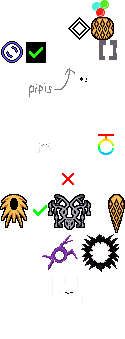
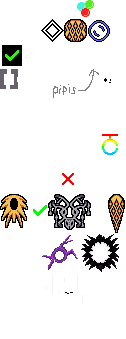
Add new watchermode challenges

diff --git a/bingovista.js b/bingovista.js
@@ -1291,7 +1291,7 @@ export const CHALLENGES = {
 			{ type: "text", value: (v[0] === "false") ? ("[" + String(am) + "/" + String(amt) + "]") : v[1].toUpperCase(), color: RainWorldColors.Unity_white }
 		];
 		if (v[2] === "true")
-			p.splice(2, 0, { type: "icon", value: "singlearrow", scale: 1, color: RainWorldColors.Unity_white, rotation: 0 } );
+			p.splice(2, 0, { type: "icon", value: "keyShiftB", scale: 1, color: RainWorldColors.Unity_white, rotation: 90 } );
 		var b = Array(4); b.fill(0);
 		if (v[0] === "true") {
 			//	can use old version
@@ -1472,7 +1472,7 @@ export const CHALLENGES = {
 			comments: "When a creature is taken through a gate, that creature is added to a list and the gate is logged. If a gate already appears in the creature's list, taking that gate again will not advance the count. Thus, you can't grind progress by taking one gate back and forth. The list is stored per creature transported; thus, taking a new different creature does not advance the count, nor does piling multiple creatures into one gate. When the total gate count of any logged creature reaches the goal, credit is awarded.",
 			paint: [
 				{ type: "icon", value: entityIconAtlas(items[1]), scale: 1, color: entityIconColor(items[1]), rotation: 0 },
-				{ type: "icon", value: "singlearrow", scale: 1, color: RainWorldColors.Unity_white, rotation: 0 },
+				{ type: "icon", value: "keyShiftB", scale: 1, color: RainWorldColors.Unity_white, rotation: 90 },
 				{ type: "icon", value: "ShortcutGate", scale: 1, color: RainWorldColors.Unity_white, rotation: 0 },
 				{ type: "break" },
 				{ type: "text", value: "[" + String(am) + "/" + String(amt) + "]", color: RainWorldColors.Unity_white }
@@ -1889,7 +1889,7 @@ export const CHALLENGES = {
 		d += iteratorNameToDisplayTextMap[items[1]] + ".";
 		var p = [
 			{ type: "icon", value: "GuidanceNeuron", scale: 1, color: RainWorldColors.GuidanceNeuron, rotation: 0 },
-			{ type: "icon", value: "singlearrow", scale: 1, color: RainWorldColors.Unity_white, rotation: 0 },
+			{ type: "icon", value: "keyShiftB", scale: 1, color: RainWorldColors.Unity_white, rotation: 90 },
 		]
 		p.push( { type: "icon", value: iteratorNameToIconAtlasMap[items[1]], scale: 1, color: iteratorNameToIconColorMap[items[1]], rotation: 0 } );
 		var b = Array(3); b.fill(0);
@@ -2058,7 +2058,7 @@ export const CHALLENGES = {
 		d += r;
 		var p = [ { type: "icon", value: entityIconAtlas(items[1]), scale: 1, color: entityIconColor(items[1]), rotation: 0 } ];
 		if (any[1] === "true") {
-			p.push( { type: "icon", value: "singlearrow", scale: 1, color: RainWorldColors.Unity_white, rotation: 0 },
+			p.push( { type: "icon", value: "keyShiftB", scale: 1, color: RainWorldColors.Unity_white, rotation: 90 },
 					{ type: "icon", value: "doubleshelter", scale: 1, color: RainWorldColors.Unity_white, rotation: 0 } );
 		} else {
 			p.unshift( { type: "icon", value: "ShelterMarker", scale: 1, color: RainWorldColors.Unity_white, rotation: 0 } );
@@ -2351,7 +2351,7 @@ export const CHALLENGES = {
 			comments: "",
 			paint: [
 				{ type: "icon", value: "Symbol_Neuron", scale: 1, color: RainWorldColors.Unity_white, rotation: 0 },
-				{ type: "icon", value: "singlearrow", scale: 1, color: RainWorldColors.Unity_white, rotation: 0 },
+				{ type: "icon", value: "keyShiftB", scale: 1, color: RainWorldColors.Unity_white, rotation: 90 },
 				{ type: "icon", value: iteratorNameToIconAtlasMap[oracle], scale: 1, color: iteratorNameToIconColorMap[oracle], rotation: 0 },
 				{ type: "break" },
 				{ type: "text", value: "[" + String(am) + "/" + String(amt) + "]", color: RainWorldColors.Unity_white }
@@ -2436,7 +2436,7 @@ export const CHALLENGES = {
 				{ type: "text", value: items[1], color: RainWorldColors.Unity_white },
 				{ type: "icon", value: "Symbol_Pearl", scale: 1, color: entityIconColor("Pearl"), rotation: 0 },
 				{ type: "break" },
-				{ type: "icon", value: "singlearrow", scale: 1, color: RainWorldColors.Unity_white, rotation: 90 },
+				{ type: "icon", value: "keyShiftB", scale: 1, color: RainWorldColors.Unity_white, rotation: 180 },
 				{ type: "break" },
 				{ type: "icon", value: iteratorNameToIconAtlasMap[oracle], scale: 1, color: iteratorNameToIconColorMap[oracle], rotation: 0 }
 			],
@@ -2482,7 +2482,7 @@ export const CHALLENGES = {
 		d += r + ".";
 		var p = [ { type: "icon", value: ((common[1] === "true") ? "pearlhoard_normal" : "pearlhoard_color"), scale: 1, color: entityIconColor("Pearl"), rotation: 0 } ];
 		if (any[1] === "true") {
-			p.push( { type: "icon", value: "singlearrow", scale: 1, color: RainWorldColors.Unity_white, rotation: 0 },
+			p.push( { type: "icon", value: "keyShiftB", scale: 1, color: RainWorldColors.Unity_white, rotation: 90 },
 					{ type: "icon", value: "doubleshelter", scale: 1, color: RainWorldColors.Unity_white, rotation: 0 } );
 		} else {
 			p.unshift( { type: "icon", value: "ShelterMarker", scale: 1, color: RainWorldColors.Unity_white, rotation: 0 } );
@@ -2667,7 +2667,7 @@ export const CHALLENGES = {
 			comments: "Credit is awarded when Five Pebbles resumes playing the pearl; wait for dialog to finish, and place the pearl within reach.",
 			paint: [
 				{ type: "icon", value: "memoriespearl", scale: 1, color: RainWorldColors.Unity_white, rotation: 0 },
-				{ type: "icon", value: "singlearrow", scale: 1, color: RainWorldColors.Unity_white, rotation: 0 },
+				{ type: "icon", value: "keyShiftB", scale: 1, color: RainWorldColors.Unity_white, rotation: 90 },
 				{ type: "icon", value: iteratorNameToIconAtlasMap[oracle], scale: 1, color: iteratorNameToIconColorMap[oracle], rotation: 0 }
 			],
 			toBin: new Uint8Array(b)
@@ -2959,7 +2959,7 @@ export const CHALLENGES = {
 			{ type: "break" }
 		];
 		if (v[0] !== "Any Region") p.push( { type: "text", value: v[0], color: RainWorldColors.Unity_white } );
-		p.push( { type: "icon", value: "singlearrow", scale: 1, color: RainWorldColors.Unity_white, rotation: 0 } );
+		p.push( { type: "icon", value: "keyShiftB", scale: 1, color: RainWorldColors.Unity_white, rotation: 90 } );
 		if (v[1] !== "Any Region") p.push( { type: "text", value: v[1], color: RainWorldColors.Unity_white } );
 		var b = Array(6); b.fill(0);
 		b[0] = challengeValue(thisname);
@@ -3132,7 +3132,7 @@ export const CHALLENGES = {
 			throw new TypeError(thisname + ": delivery flag \"" + items[1] + "\" not 'true' or 'false'");
 		var p = [ { type: "icon", value: "Symbol_MoonCloak", scale: 1, color: entityIconColor("MoonCloak"), rotation: 0 } ];
 		if (items[1] === "true") {
-			p.push( { type: "icon", value: "singlearrow", scale: 1, color: RainWorldColors.Unity_white, rotation: 0 } );
+			p.push( { type: "icon", value: "keyShiftB", scale: 1, color: RainWorldColors.Unity_white, rotation: 90 } );
 			p.push( { type: "icon", value: "GuidanceMoon", scale: 1, color: RainWorldColors.GuidanceMoon, rotation: 0 } );
 		}
 		var b = Array(3); b.fill(0);
@@ -3309,7 +3309,7 @@ export const CHALLENGES = {
 			description: "Visit " + iteratorNameToDisplayTextMap[oracle[1]] + ".",
 			comments: "",
 			paint: [
-				{ type: "icon", value: "singlearrow", scale: 1, color: RainWorldColors.Unity_white, rotation: 0 },
+				{ type: "icon", value: "keyShiftB", scale: 1, color: RainWorldColors.Unity_white, rotation: 90 },
 				{ type: "icon", value: iteratorNameToIconAtlasMap[oracle[1]], scale: 1, color: iteratorNameToIconColorMap[oracle[1]], rotation: 0 }
 			],
 			toBin: new Uint8Array(b)
@@ -3497,7 +3497,7 @@ export const CHALLENGES = {
 			throw new TypeError(thisname + ": amount \"" + amounts[1] + "\" not a number or out of range");
 		var p = [
 			{ type: "icon", value: entityIconAtlas(v[0]), scale: 1, color: entityIconColor(v[0]), rotation: 0 },
-			{ type: "icon", value: "singlearrow", scale: 1, color: RainWorldColors.Unity_white, rotation: 0 },
+			{ type: "icon", value: "keyShiftB", scale: 1, color: RainWorldColors.Unity_white, rotation: 90 },
 			{ type: "icon", value: "portal", scale: 1, color: RainWorldColors.Unity_white, rotation: 0 },
 			{ type: "break" },
 			{ type: "text", value: "[" + String(am) + "/" + amt + "]", color: RainWorldColors.Unity_white },
@@ -3585,7 +3585,7 @@ export const CHALLENGES = {
 			throw new TypeError(thisname + ": flag \"" + items[1] + "\" not 'true' or 'false'");
 		var p = [
 			{ type: "icon", value: entityIconAtlas("MothGrub"), scale: 1, color: entityIconColor("MothGrub"), rotation: 0 },
-			{ type: "icon", value: "singlearrow", scale: 1, color: RainWorldColors.Unity_white, rotation: 0 },
+			{ type: "icon", value: "keyShiftB", scale: 1, color: RainWorldColors.Unity_white, rotation: 90 },
 			{ type: "icon", value: entityIconAtlas("BigMoth"), scale: 1, color: entityIconColor("BigMoth"), rotation: 0 },
 			{ type: "break" },
 			{ type: "text", value: "[" + String(am) + "/" + amt + "]", color: RainWorldColors.Unity_white },
@@ -3637,6 +3637,167 @@ export const CHALLENGES = {
 			values: [String(amt)],
 			description: "Earn " + amt + " points from creature kills" + (oneCycleItems[1] === "true" ? " in a single cycle." : "."),
 			comments: "",
+			paint: p,
+			toBin: new Uint8Array(b)
+		};
+	},
+	WatcherBingoToysChallenge: function(desc) {
+		const thisname = "WatcherBingoToysChallenge";
+		//	desc of format ["0", "0"]
+		checkDescLen(thisname, desc.length, 2);
+		var b = Array(4); b.fill(0);
+		b[0] = challengeValue(thisname);
+		b[2] = b.length - GOAL_LENGTH;
+		return {
+			name: thisname,
+			category: "Touch Watcher Toys",
+			items: [],
+			values: [],
+			description: "Touch all the Watcher toys in one cycle",
+			comments: "",
+			paint: [
+				{ type: "icon", value: entityIconAtlas("BallToy"), scale: 1, color: entityIconColor("BallToy"), rotation: 0 },
+				{ type: "icon", value: entityIconAtlas("WeirdToy"), scale: 1, color: entityIconColor("WeirdToy"), rotation: 0 },
+				{ type: "break" },
+				{ type: "text", value: "[0/4]", color: RainWorldColors.Unity_white },
+				{ type: "break" },
+				{ type: "icon", value: entityIconAtlas("SpinToy"), scale: 1, color: entityIconColor("SpinToy"), rotation: 0 },
+				{ type: "icon", value: entityIconAtlas("SoftToy"), scale: 1, color: entityIconColor("SoftToy"), rotation: 0 },
+			],
+			toBin: new Uint8Array(b)
+		};
+	},
+	WatcherBingoRivCellChallenge: function(desc) {
+		const thisname = "WatcherBingoRivCellChallenge";
+		//	desc of format ["0", "0"]
+		checkDescLen(thisname, desc.length, 2);
+		var b = Array(3); b.fill(0);
+		b[0] = challengeValue(thisname);
+		b[2] = b.length - GOAL_LENGTH;
+		return {
+			name: thisname,
+			category: "Feeding the Rarefaction Cell to an Angler",
+			items: [],
+			values: [],
+			description: "Feed the Rarefaction Cell to an Angler (completes if you die).",
+			comments: "The Rarefaction Cell's immense power disturbs time itself; hence, this goal is awarded even if the player dies in the process. May our cycles meet again, little Water Dancer...",
+			paint: [
+				{ type: "icon", value: "Symbol_EnergyCell", scale: 1, color: RainWorldColors.Unity_white, rotation: 0 },
+				{ type: "icon", value: "Kill_Angler", scale: 1, color: entityIconColor("Angler"), rotation: 0 }
+			],
+			toBin: new Uint8Array(b)
+		};
+	},
+	WatcherBingoDaemonDropChallenge: function(desc, _board) {
+		const thisname = "WatcherBingoDaemonDropChallenge";
+		//	desc of format ["System.String|VultureGrub|Creature Type|0|daemon", "0", "0"]
+		checkDescLen(thisname, desc.length, 3);
+		var items = checkSettingBox(thisname, desc[0], ["System.String", , "Creature Type", , "daemon"], "creature selection");
+		if (BingoEnum_Depthable[items[1]] === undefined && creatureNameToDisplayTextMap[items[1]] === undefined)
+			throw new TypeError(thisname + ": \"" + items[1] + "\" not found in creatures");
+		var d = entityNameQuantify(1, items[1]);
+		var b = Array(4); b.fill(0);
+		b[0] = challengeValue(thisname);
+		if (BingoEnum_Transportable.includes(items[1]))
+			b[3] = enumToValue(items[1], "daemon");
+		else
+			b[3] = enumToValue(items[1], "creatures") + BINARY_TO_STRING_DEFINITIONS[challengeValue(thisname)].params[0].altthreshold - 1;
+		b[2] = b.length - GOAL_LENGTH;
+		return {
+			name: thisname,
+			category: "Dropping a creature in the bottom of Daemon",
+			items: [items[2]],
+			values: [items[1]],
+			description: "Drop " + d + " into the bottom of Daemon drop room (WRSA_L01).",
+			comments: "Player, and creature of target type, must be in the room at the same time, and the creature's position must be below the drop." + "<br><a href=\"https://alduris.github.io/watcher-map/map.html?region=WRSA&room=WRSA_L01\" target=\"_blank\"> WRSA_L01 on Rain World Watcher Map</a>",
+			paint: [
+				{ type: "icon", value: entityIconAtlas(items[1]), scale: 1, color: entityIconColor(items[1]), rotation: 0 },
+				{ type: "break" },
+				{ type: "icon", value: "deathpiticon", scale: 1, color: RainWorldColors.Unity_white, rotation: 0 },
+				{ type: "break" },
+				{ type: "text", value: "WRSA_L01", color: RainWorldColors.Unity_white }
+			],
+			toBin: new Uint8Array(b)
+		};
+	},
+	WatcherBingoPearlDeliveryChallenge: function(desc, _board) {
+		const thisname = "WatcherBingoPearlDeliveryChallenge";
+		//	desc of format ["System.String|WORA_WORA|Pearl|0|pearls", "System.Boolean|true|Common|1|NULL", "0", "0"]
+		checkDescLen(thisname, desc.length, 4);
+		var items = checkSettingBox(thisname, desc[0], ["System.String", , "Pearl", , "pearls"], "pearl");
+		var common = checkSettingBox(thisname, desc[1], ["System.Boolean", , "Common", , "NULL"], "common pearls flag");
+		if (DataPearlList.indexOf(items[1]) < 0)
+			throw new TypeError(thisname + ": \"" + items[1] + "\" not found in pearls");
+		if (common[1] !== "true" && common[1] !== "false")
+			throw new TypeError(thisname + ": pearl flag \"" + common[1] + "\" not 'true' or 'false'");
+		var p = []
+		if (common[1] === "true") {
+			p.push({ type: "icon", value: "Symbol_Pearl", scale: 1, color: RainWorldColors.Unity_white, rotation: 0 });
+			p.push({ type: "break" });
+			p.push({ type: "icon", value: "keyShiftB", scale: 1, color: RainWorldColors.Unity_white, rotation: 180 });
+			p.push({ type: "break" });
+			p.push({ type: "icon", value: "pearlreader", scale: 1, color: RainWorldColors.Unity_white, rotation: 0 });
+		} else {
+			p.push({ type: "text", value: items[1].split("_")[0], color: RainWorldColors.Unity_white });
+			p.push({ type: "icon", value: "Symbol_Pearl", scale: 1, color: dataPearlToColorMap[items[1]], rotation: 0, background:
+				{ type: "icon", value: "radialgradient", scale: 1, color: RainWorldColors.Unity_white, rotation: 0 }
+			});
+			p.push({ type: "break" });
+			p.push({ type: "icon", value: "keyShiftB", scale: 1, color: RainWorldColors.Unity_white, rotation: 180 });
+			p.push({ type: "break" });
+			p.push({ type: "icon", value: "pearlreader", scale: 1, color: RainWorldColors.Unity_white, rotation: 0 });
+		}
+		var b = Array(4); b.fill(0);
+		b[0] = challengeValue(thisname);
+		b[3] = enumToValue(items[1], "pearls");
+		b[2] = b.length - GOAL_LENGTH;
+		return {
+			name: thisname,
+			category: common[1] === "true" ? "Delivering common pearls to the Pearl Reader" : "Delivering colored pearls to the Pearl Reader",
+			items: [items[2]],
+			values: [items[1]],
+			description: common[1] === "true" ? "Deliver a common pearl to the Pearl Reader in Ancient Urban." : "Deliver " + regionToDisplayText(_board.character, items[1], "Any Subregion") + " colored pearl to the Pearl Reader in Ancient Urban.",
+			comments: "",
+			paint: p,
+			toBin: new Uint8Array(b)
+		};
+	},
+	BingoShelterChallenge: function(desc, _board) {
+		const thisname = "BingoShelterChallenge";
+		checkDescLen(thisname, desc.length, 8);	
+		var items = checkSettingBox(thisname, desc[4], ["System.Int32", , "Amount", , "NULL"], "shelter count");
+		var amt = parseInt(items[1]), am = parseInt(desc[3]);
+		if (isNaN(amt) || amt < 1 || amt > INT_MAX)
+			throw new TypeError(thisname + ": amount \"" + items[1] + "\" not a number or out of range");
+		var regionItems = checkSettingBox(thisname, desc[0], ["System.String", , "Region", , "shelterregions"], "region");
+		var uniqueSheltersItems = checkSettingBox(thisname, desc[1], ["System.Boolean", , "Unique shelters", , "NULL"], "unique shelters");
+		var diffRegionItems = checkSettingBox(thisname, desc[2], ["System.Boolean", , "Different regions", , "NULL"], "different regions");
+		var p = [];
+		p.push({ type: "icon", value: "keyShiftB", scale: 1, color: RainWorldColors.Unity_green, rotation: 90 });
+		if (uniqueSheltersItems[1] === "false" && diffRegionItems[1] === "false") {
+			p.push( { type: "icon", value: "doubleshelter", scale: 1, color: RainWorldColors.Unity_white, rotation: 0 } );
+		} else {
+			p.push( { type: "icon", value: "ShelterMarker", scale: 1, color: RainWorldColors.Unity_white, rotation: 0 } );
+		}
+		if (diffRegionItems[1] === "true")
+			p.push( { type: "icon", value: "TravellerA", scale: 1, color: RainWorldColors.Unity_white, rotation: 0 } );
+		p.push({ type: "break" });
+		if (regionItems[1] !== "Any Region" && diffRegionItems[1] === "false") {
+			p.push({ type: "text", value: regionItems[1], color: RainWorldColors.Unity_white });
+			p.push({ type: "break" });
+		}
+		p.push({ type: "text", value: "[" + String(am) + "/" + items[1] + "]", color: RainWorldColors.Unity_white });
+		var b = Array(5); b.fill(0);
+		b[0] = challengeValue(thisname);
+		applyShort(b, 3, amt);
+		b[2] = b.length - GOAL_LENGTH;
+		return {
+			name: thisname,
+			category: "Rest in shelters",
+			items: [items[2]],
+			values: [String(amt)],
+			description: "Rest in " + entityNameQuantify(amt, "shelters", uniqueSheltersItems[1] === "true" && diffRegionItems[1] === "false") + (regionItems[1] !== "Any Region" && diffRegionItems[1] === "false" ? " in " + regionToDisplayText(_board.character, regionItems[1], "Any Subregion") : "") + (diffRegionItems[1] === "true" ? " in different regions" : "") + ".",
+			comments: "Rest in multiple shelters, in different regions or unique shelters.",
 			paint: p,
 			toBin: new Uint8Array(b)
 		};
@@ -4159,7 +4320,8 @@ const BingoEnum_Depthable = [
 	"TubeWorm",
 	"SmallCentipede",
 	"Snail",
-	"LanternMouse"
+	"LanternMouse",
+	"Tartigrade",
 ];
 
 /**
@@ -5812,6 +5974,7 @@ const ALL_ENUMS = {
 	"items":          Object.keys(itemNameToDisplayTextMap),
 	"pearls":         DataPearlList.slice(2),
 	"depths":         BingoEnum_Depthable,
+	"daemon":         BingoEnum_Depthable,
 	"expobject":      BingoEnum_expobject,
 	"craft":          BingoEnum_CraftableItems,
 	"banitem":        BingoEnum_Bannable,
@@ -6813,10 +6976,12 @@ function challengeTextToAbstract(desc, template, thisname) {
  *	itemNameToDisplayTextMap), converting it to the English singular case
  *	("a Batfly", etc.).
  */
-function entityNameQuantify(n, s) {
+function entityNameQuantify(n, s, unique = false) {
 	if (n != 1)
-		return String(n) + " " + s;
+		return String(n) + (unique ? " unique " : " ") + s;
 	s = s.replace(/Mice$/, "Mouse").replace(/ies$/, "y").replace(/ches$/, "ch").replace(/s$/, "");
+	if (unique)
+		return "a unique " + s;
 	if (/^[AEIOU]/i.test(s))
 		s = "an " + s;
 	else